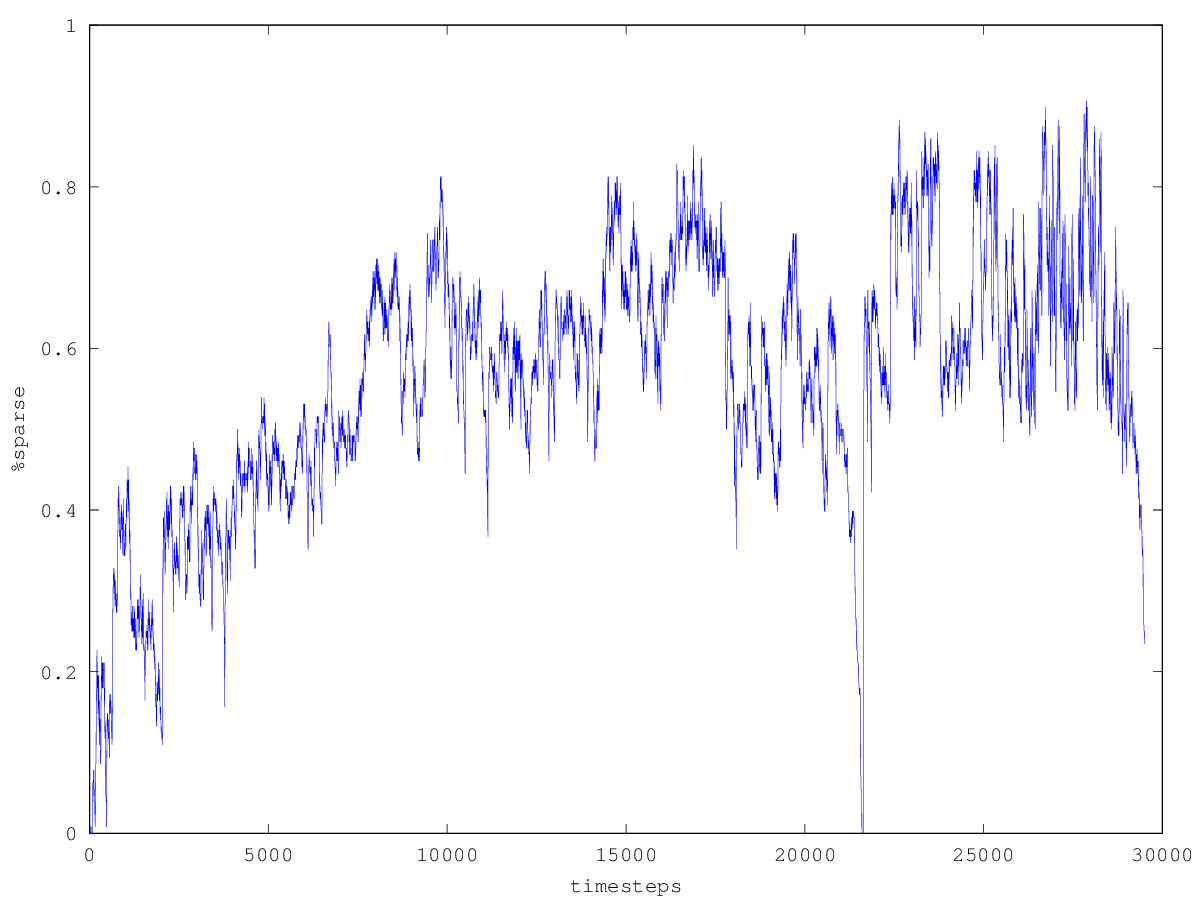
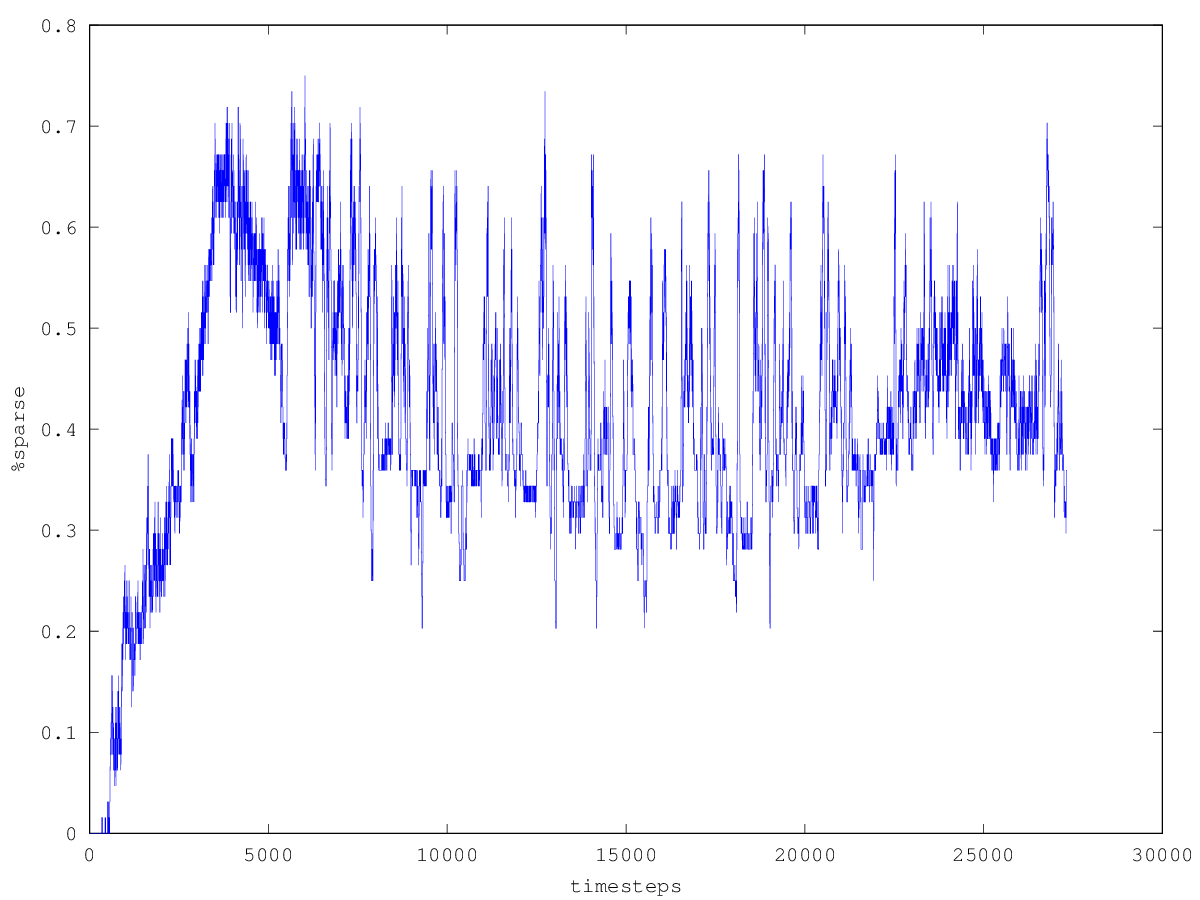
test server speed
git-svn-id: http://svn.code.sf.net/p/petavision/code/sandbox@9513 7c0444ca-5550-0410-9008-faecdbe78eb5

Former-commit-id: 5e94ad2dc5f1eec007f05834867120f9d17ec589

diff --git a/soundAnalysis/analysis/soundbyte.m b/soundAnalysis/analysis/soundbyte.m
@@ -1,6 +1,6 @@
 addpath("/Users/MLD/newvision/PetaVision/mlab/util/");
-pluspvpfile = "/Users/MLD/newvision/sandbox/soundAnalysis/biglebowski/checkpoints/Checkpoint3315/A1ToPositiveError_W.pvp"
-minuspvpfile = "/Users/MLD/newvision/sandbox/soundAnalysis/biglebowski/checkpoints/Checkpoint3315/A1ToNegativeError_W.pvp"
+pluspvpfile = "/Users/MLD/newvision/sandbox/soundAnalysis/newupdate/checkpoints/Checkpoint77350/A1ToPositiveError_W.pvp"
+minuspvpfile = "/Users/MLD/newvision/sandbox/soundAnalysis/newupdate/checkpoints/Checkpoint77350/A1ToNegativeError_W.pvp"
 
 plusWcell = readpvpfile(pluspvpfile);
 minusWcell = readpvpfile(minuspvpfile);
@@ -29,39 +29,39 @@ W = plusW - minusW;
 
 %%%%%%%%%%%%%%%%%sparse stuff
 
-apvpfile = "~/newvision/sandbox/soundAnalysis/bigcochlea/a6_A1.pvp";
+%%apvpfile = "~/newvision/sandbox/soundAnalysis/biglebowski32nf/a6_A1.pvp";
 
-a1 = readpvpfile(apvpfile);
+%%a1 = readpvpfile(apvpfile);
 
-time = numel(a1)
-nf = numel(a1{1}.values(1,1,:))
+%%time = numel(a1)
+%%nf = numel(a1{1}.values(1,1,:))
 
-output = zeros(time,1);
-sparse = zeros(nf,1);
+%%output = zeros(time,1);
+%%sparse = zeros(nf,1);
 
-size(a1{1}.values)
+%%size(a1{1}.values)
 
-    for(k = 1:time)
+  %%  for(k = 1:time)
 
-        output(k) = nnz(a1{k}.values)/128;
+    %%    output(k) = nnz(a1{k}.values)/nf;
 
-        for (j = 1:nf)
+      %%  for (j = 1:nf)
 
-            sparse(j) = sparse(j) + ((a1{k}.values(1,1,j) > 0) / time);
+        %%    sparse(j) = sparse(j) + ((a1{k}.values(1,1,j) > 0) / time);
 
-    end
+    %%end
 
-end
+%%end
 
 
-[newsparse, oldsparse] = sort(sparse,1,"descend");
+%%[newsparse, oldsparse] = sort(sparse,1,"descend");
 
-dlmwrite('sparserank.txt',oldsparse,"-append");
+%%dlmwrite('sparserank.txt',oldsparse);
 
-bar(newsparse);
-xlabel("weights")
-ylabel("activity")
-print("sparsesorted.png");
+%%bar(newsparse);
+%%xlabel("weights")
+%%ylabel("activity")
+%%print("sparsesorted.png");
 
 
 %%%%%%%%%%%%%%%%%%%%%%%%%%%%
@@ -80,7 +80,7 @@ for(feature = 1:NF)
 
     weightrescaled = 127.5 + 127.5 * (weight / max(abs(weight(:))));
 
-    subplot(ceil(sqrt(NF)),ceil(sqrt(NF)),oldsparse(feature));
+    subplot(ceil(sqrt(NF)),ceil(sqrt(NF)),feature);
     imagesc(weightrescaled);
     %%xlabel(feature, 'FontSize', 4);
     %%title( feature, 'FontSize', 6 )

diff --git a/soundAnalysis/analysis/comparegraph.m b/soundAnalysis/analysis/comparegraph.m
@@ -1,5 +1,5 @@
 addpath("~/newvision/PetaVision/mlab/util/");
-pvpfile = "/Users/MLD/newvision/sandbox/soundAnalysis/welltempered/a1_NewCochlear.pvp";
+pvpfile = "/Users/MLD/newvision/sandbox/soundAnalysis/biglebowski/checkpoints/a1_NewCochlear.pvp";
 
 
 [data, hdr] = readpvpfile(pvpfile,1000,300000,1); %% filename, displayperiod, end frame, start frame
@@ -22,7 +22,7 @@ cochleagraph = (outimg - min(outimg(:))) / (max(outimg(:)) - min(outimg(:)));
 
 
 
-pvpfile = "/Users/MLD/newvision/sandbox/soundAnalysis/welltempered/a9_FullRecon.pvp";
+pvpfile = "/Users/MLD/newvision/sandbox/soundAnalysis/biglebowski/checkpoints/a9_FullRecon.pvp";
 
 
 [data, hdr] = readpvpfile(pvpfile,1000,300000,1);

diff --git a/soundAnalysis/analysis/sparsity.m b/soundAnalysis/analysis/sparsity.m
@@ -3,7 +3,7 @@
 %%
 
 addpath("~/newvision/PetaVision/mlab/util/");
-inputpvpfile = "~/newvision/sandbox/soundAnalysis/bigcochlea/a6_A1.pvp";
+inputpvpfile = "~/newvision/sandbox/soundAnalysis/tau20ms/a6_A1.pvp";
 
 a1 = readpvpfile(inputpvpfile);
 
@@ -17,7 +17,7 @@ size(a1{1}.values)
 
 for(k = 1:time)
 
-    output(k) = nnz(a1{k}.values)/128;
+    output(k) = nnz(a1{k}.values)/nf;
 
     for (j = 1:nf)
 

diff --git a/soundAnalysis/src/StreamReconLayer.h b/soundAnalysis/src/StreamReconLayer.h
@@ -19,6 +19,7 @@ namespace PV {
     public:
         StreamReconLayer(const char * name, HyPerCol * hc);
         virtual ~StreamReconLayer();
+        virtual bool activityIsSpiking() { return false; }
         
     protected:
         StreamReconLayer();
